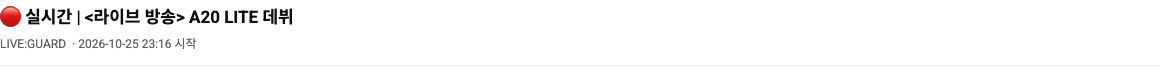
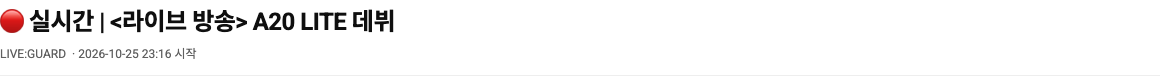
style: use broadcast title as monitoring heading and announce live end

Changed region(s): [[0.0, 0.0896, 0.3414, 0.4478], [0.0, 0.5672, 0.1862, 0.7761]]

diff --git a/src/StudioScreen.vue b/src/StudioScreen.vue
@@ -356,7 +356,7 @@ const dictRows: { name: string; words: string[]; result: string }[] = [
       </aside>
       <div class="workspace">
         <main class="main-content">
-          <div class="status-strip"><div><Radio :size="18"/><b>{{pageTitles[page]}}</b></div></div>
+          <div v-if="page!=='monitor' || !live" class="status-strip"><div><Radio :size="18"/><b>{{pageTitles[page]}}</b></div></div>
           <OperatorTools ref="operatorToolsRef" :live-id="live?.liveId??''" :ended="ended" :reviews="reviews" :progress="kickProgress" @navigate="navigateTool" @open="openToolAlert"/>
           <p v-if="error" class="error-inline" role="alert"><AlertCircle :size="17"/> {{error}}</p>
           <p v-if="notice" class="studio-notice" role="status">{{notice}}</p>
@@ -364,7 +364,7 @@ const dictRows: { name: string; words: string[]; result: string }[] = [
 
           <section v-if="!live && !loading" class="card secondary-page studio-empty"><Radio :size="30"/><h2>진행 중인 방송이 없습니다</h2><p>방송을 시작하면 시청자 채팅과 AI 조사 결과를 확인할 수 있습니다.</p></section>
           <template v-else-if="live">
-            <div class="studio-broadcast-summary"><b>{{BROADCAST_TITLE}}</b><div class="studio-live-line"><span>{{channelName}}</span><span>· {{asTime(live.startedAt)}} 시작</span><span v-if="ended" class="ended">· 방송 종료 — 결정할 수 없습니다</span></div></div>
+            <div class="studio-broadcast-summary"><h1 v-if="page==='monitor'">{{ended ? '방송이 종료되었습니다' : BROADCAST_TITLE}}</h1><b v-if="page!=='monitor' || ended">{{BROADCAST_TITLE}}</b><div class="studio-live-line"><span>{{channelName}}</span><span>· {{asTime(live.startedAt)}} 시작</span><span v-if="ended" class="ended">· 방송 종료 — 결정할 수 없습니다</span></div></div>
             <p v-if="arrivalAnnouncement" class="monitor-arrival-announcement" role="status">{{arrivalAnnouncement}}</p>
             <div v-if="page==='monitor'" class="live-monitoring-grid queue-page">
                 <StatusSummaryWidget v-for="q in monitorQueues" :key="q.kind" :title="q.title" :kind="q.kind" :count="q.items.length" :empty-text="q.empty" :fresh="q.items.some(r=>freshReviews.has(r.reviewId))" :ended="ended" @focusin="queueTab=q.kind" @click="queueTab=q.kind">

diff --git a/src/style.css b/src/style.css
@@ -1390,3 +1390,5 @@ code{font-family:'Roboto Mono',ui-monospace,Consolas,monospace}
 .configured-broadcast{display:flex;flex-direction:column;align-items:flex-start;gap:6px;padding:16px 20px;margin-bottom:24px;border:1px solid #e5e5e5;border-radius:12px;background:#fff;overflow-wrap:anywhere}.configured-broadcast>span{font-size:11px;color:#737373}.configured-broadcast>b{font-size:17px;line-height:1.5;font-weight:600}.configured-broadcast>small{font-size:13px;color:#606060}
 
 .studio-shell .studio-broadcast-summary{padding:4px 0 12px;margin-bottom:16px;border-bottom:1px solid #eee;min-width:0}.studio-shell .studio-broadcast-summary>b{display:block;font-size:17px;font-weight:600;line-height:1.5;overflow-wrap:anywhere}.studio-shell .studio-broadcast-summary .studio-live-line{margin:5px 0 0;gap:6px;font-size:12px;line-height:1.5}
+.studio-shell .studio-broadcast-summary>h1{margin:0;font-size:24px;font-weight:600;line-height:1.5;letter-spacing:-.5px;overflow-wrap:anywhere}.studio-shell .studio-broadcast-summary>h1+b{margin-top:8px;font-size:15px;font-weight:400;color:#606060}
+@media(max-width:600px){.studio-shell .studio-broadcast-summary>h1{font-size:20px}}

diff --git a/docs/broadcast-summary.md b/docs/broadcast-summary.md
@@ -9,3 +9,11 @@
 ![관리자 방송 표시명](evidence/broadcast-summary/admin-names-actual.png)
 
 검증: 프로덕션 빌드, 관리자 목업/API 표시·모바일 필터·관제 반응형·방송 시작/종료 관련 브라우저 테스트 5/5 통과. Docker frontend 재빌드 후 localhost:3000의 세 역할에서 제목과 스트리머명 표시 확인. 전체 회귀 테스트는 이번 변경 후 실행하지 않았습니다.
+
+## 상태에 따른 최상단 제목
+
+실시간 모니터링 본문에서 별도 ‘실시간 모니터링’ 제목을 제거하고 방송명을 최상단 h1으로 올렸습니다. 종료 후 같은 위치에는 **방송이 종료되었습니다**를 표시하고 방송명은 보조 정보로 남깁니다. 시작 시간·스트리머명 및 종료 시 결정 불가 안내는 유지합니다. 다른 메뉴의 제목과 방송 미시작 안내는 유지합니다.
+
+관련 관제/상태 전환 테스트 3개 통과. 방송 중 제목 heading과 중복 status-strip 없음, 종료 멘트 전환을 추가 확인했습니다. 목업/API 공통 적용, 프로덕션 빌드와 실제 localhost:3000 재빌드·방송명 표시 확인 완료. 실제 방송을 종료해 시험하지 않고 종료 상태는 격리 API로 검증했습니다.
+
+![종료 상태 격리 API](evidence/broadcast-summary/ended-fixture.png)
